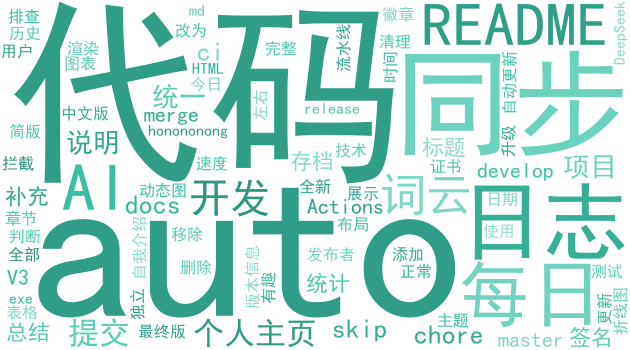
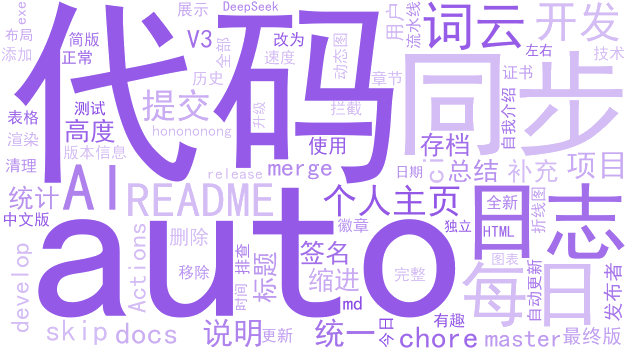
饼图换回环形+时间刻度+居中, 多段每段缩进, AI总结30-500字灵活

diff --git a/.github/scripts/gen_log.py b/.github/scripts/gen_log.py
@@ -58,7 +58,7 @@ def ai_log_and_color(commits):
     prompt = (
         "以下是我今天(GitHub: hong2301)的所有代码提交记录:\n" + desc +
         "\n\n请完成两件事:\n"
-        "1. 写一篇200-500字的中文今日开发日志, 第一人称, 像程序员日记, "
+        "1. 写一篇30-500字的中文今日开发日志, 跟据今天内容多少灵活调整篇幅, 内容少就短一点, 千万不要写废话, 第一人称, 像程序员日记, "
         "自然叙述今天做了什么、解决了什么问题, 不要列清单, 不要说'今天提交了N次代码'这类废话. "
         "重要: 涉及具体项目/版本号/功能时, 前面必须带项目中文名\n"
         "2. 根据今天的工作内容与状态, 从以下8个主题色中选一个最贴合的颜色:\n"
@@ -121,28 +121,32 @@ def build_pie_svg(commits, hexc):
         hh = int(c["time"][:2])
         buckets[min(hh//4, 5)] = (buckets[min(hh//4,5)][0], buckets[min(hh//4,5)][1]+1)
     total = len(commits) or 1
-    W, H, cx, cy, rmax = 420, 350, 210, 175, 128
-    maxv = max(b[1] for b in buckets) or 1
+    W, H, cx, cy, r, r2 = 430, 360, 215, 180, 108, 58
     colors = shades(hexc, len(buckets))
     s = ['<svg xmlns="http://www.w3.org/2000/svg" width="%d" height="%d" viewBox="0 0 %d %d">' % (W,H,W,H),
          '<rect width="100%%" height="100%%" fill="#0d1117"/>']
     seg = 360.0 / len(buckets)
-    gap = 1.5
+    start = -90
     for i, (name, v) in enumerate(buckets):
-        rr = rmax * (v / maxv)
-        if rr > 2:
-            a0 = -90 + i * seg + gap / 2
-            a1 = -90 + (i + 1) * seg - gap / 2
-            x0, y0 = _polar(cx, cy, rr, a0)
-            x1, y1 = _polar(cx, cy, rr, a1)
-            large = 1 if (a1 - a0) > 180 else 0
-            d = ("M %.1f %.1f L %.1f %.1f A %.1f %.1f 0 %d 1 %.1f %.1f Z"
-                 % (cx, cy, x0, y0, rr, rr, large, x1, y1))
+        frac = v / total
+        a0, a1 = start, start + frac * 360
+        if frac > 0.001:
+            x0,y0 = _polar(cx,cy,r,a0); x1,y1 = _polar(cx,cy,r,a1)
+            x2,y2 = _polar(cx,cy,r2,a1); x3,y3 = _polar(cx,cy,r2,a0)
+            large = 1 if (a1-a0) > 180 else 0
+            d = ("M %.1f %.1f A %d %d 0 %d 1 %.1f %.1f L %.1f %.1f A %d %d 0 %d 0 %.1f %.1f Z"
+                 % (x0,y0,r,r,large,x1,y1,x2,y2,r2,r2,large,x3,y3))
             s.append('<path d="' + d + '" fill="' + colors[i] + '"/>')
-    s.append('<text x="%d" y="%d" fill="#1a1a1a" font-size="34" font-weight="bold" text-anchor="middle" font-family="sans-serif">%d</text>'
+        # 时间刻度: 扇区中央外侧
+        am = (a0 + a1) / 2
+        tx, ty = _polar(cx, cy, r + 20, am)
+        s.append('<text x="%.1f" y="%.1f" fill="#c9d1d9" font-size="12" text-anchor="middle" font-family="sans-serif">%s</text>'
+                 % (tx, ty + 4, name))
+        start = a1
+    s.append('<text x="%d" y="%d" fill="#1a1a1a" font-size="32" font-weight="bold" text-anchor="middle" font-family="sans-serif">%d</text>'
              % (cx, cy+2, total))
-    s.append('<text x="%d" y="%d" fill="#333333" font-size="16" text-anchor="middle" font-family="sans-serif">次提交</text>'
-             % (cx, cy+28))
+    s.append('<text x="%d" y="%d" fill="#4b5563" font-size="15" text-anchor="middle" font-family="sans-serif">次提交</text>'
+             % (cx, cy+24))
     s.append('</svg>')
     return "".join(s)
 
@@ -153,7 +157,9 @@ def build_log(date_str, commits, ai_text, hexc, img_line):
     title = '<h1 style="color:%s">%s日志</h1>' % (hexc, cn_date(date.fromisoformat(date_str)))
     lines = [title, "", ""]
     if ai_text:
-        lines.append("　　" + ai_text.strip())
+        paras = ai_text.strip().split(chr(10))
+        indented = chr(10).join("\u3000\u3000" + p if p.strip() else "" for p in paras)
+        lines.append(indented)
     else:
         lines.append("*(今天没有提交记录)*" if not commits else "*日志生成中...*")
     lines.append("")

diff --git a/logs/2026-08-17.md b/logs/2026-08-17.md
@@ -1,9 +1,7 @@
-<h1 style="color:#4ec9b0">2026年8月17日日志</h1>
+<h1 style="color:#bc8cff">2026年8月17日日志</h1>
 
 
-　　今天大部分时间都泡在微信公众号OCR采集器上。早上连续补了几轮开发日志，把之前遗漏的细节都整理进去了。下午集中精力打磨README，先是写了面向用户的最终版，然后发现自签名证书的问题——用户下载exe时总会被系统拦截，干脆在文档里明确说明了这是自签名的正常现象，省得大家误以为是病毒。接着发布了V3.0.1版本，给exe补全了版本信息，合并到master后清理了文档里过时的证书章节，整个过程还挺顺畅。
-
-傍晚突然想做点不一样的事，开始折腾个人主页。一开始加了统计卡和徽章，结果渲染老出问题，试了好几个版本。后来干脆推翻重来，搞了个有趣的中文版，还接入了每日提交动态图。为了让数据自动更新，专门写了GitHub Actions流水线，后来又把主页改成每日开发日志的形式，利用DeepSeek对当天的提交做AI总结。晚上在日志的视觉呈现上花了不少功夫——词云改成透明背景、饼图去掉图例、统一了尺寸和比例，还让AI根据当天内容自动判断主题色，这样每天打开主页颜色都不一样，挺有仪式感的。中间还顺手同步了十几个order系列的仓库代码，都是自动化操作，没费太多心思。整体今天就是白天打磨产品文档和发布，晚上折腾个人主页的自动化展示，代码写得不算多，但把很多细节都调到了满意的状态。
+　　上午先补了三轮开发日志的chore提交，算是给自动化流程热热身。午后的重头戏在微信公众号OCR采集器上——把README整理成最终用户向版本，顺带删掉了冗余的使用说明；随后发现自签名证书的提示可能让用户困惑，就在文档里补了拦截说明。接着发V3.0.1，给exe加了完整版本信息，合并回master后又清理了证书章节和旧速度说明。傍晚转去折腾个人主页，先是常规自我介绍加统计卡，结果渲染出问题，试了试最简版README排查，最后换了个新思路——全中文界面加每日提交动态图，还配了折线图和Actions自动更新。忙完主页又顺手把十几个order系列项目全部同步了一遍。晚上灵光一现，干脆把主页改成每日开发日志，用DeepSeek自动总结，还加了词云、饼图和玫瑰图，调了好几版布局和配色，最后统一成3:2比例，标题也用AI判断的主题色。今天主要就是给项目做收尾和打磨个人主页的展示效果，折腾得挺尽兴。
 
 <img src="2026-08-17-wordcloud.png" width="49%" alt="提交词云"/> <img src="2026-08-17-pie.svg" width="32.7%" alt="提交时间分布"/>
 

diff --git a/README.md b/README.md
@@ -1,9 +1,7 @@
-<h1 style="color:#4ec9b0">2026年8月17日日志</h1>
+<h1 style="color:#bc8cff">2026年8月17日日志</h1>
 
 
-　　今天大部分时间都泡在微信公众号OCR采集器上。早上连续补了几轮开发日志，把之前遗漏的细节都整理进去了。下午集中精力打磨README，先是写了面向用户的最终版，然后发现自签名证书的问题——用户下载exe时总会被系统拦截，干脆在文档里明确说明了这是自签名的正常现象，省得大家误以为是病毒。接着发布了V3.0.1版本，给exe补全了版本信息，合并到master后清理了文档里过时的证书章节，整个过程还挺顺畅。
-
-傍晚突然想做点不一样的事，开始折腾个人主页。一开始加了统计卡和徽章，结果渲染老出问题，试了好几个版本。后来干脆推翻重来，搞了个有趣的中文版，还接入了每日提交动态图。为了让数据自动更新，专门写了GitHub Actions流水线，后来又把主页改成每日开发日志的形式，利用DeepSeek对当天的提交做AI总结。晚上在日志的视觉呈现上花了不少功夫——词云改成透明背景、饼图去掉图例、统一了尺寸和比例，还让AI根据当天内容自动判断主题色，这样每天打开主页颜色都不一样，挺有仪式感的。中间还顺手同步了十几个order系列的仓库代码，都是自动化操作，没费太多心思。整体今天就是白天打磨产品文档和发布，晚上折腾个人主页的自动化展示，代码写得不算多，但把很多细节都调到了满意的状态。
+　　上午先补了三轮开发日志的chore提交，算是给自动化流程热热身。午后的重头戏在微信公众号OCR采集器上——把README整理成最终用户向版本，顺带删掉了冗余的使用说明；随后发现自签名证书的提示可能让用户困惑，就在文档里补了拦截说明。接着发V3.0.1，给exe加了完整版本信息，合并回master后又清理了证书章节和旧速度说明。傍晚转去折腾个人主页，先是常规自我介绍加统计卡，结果渲染出问题，试了试最简版README排查，最后换了个新思路——全中文界面加每日提交动态图，还配了折线图和Actions自动更新。忙完主页又顺手把十几个order系列项目全部同步了一遍。晚上灵光一现，干脆把主页改成每日开发日志，用DeepSeek自动总结，还加了词云、饼图和玫瑰图，调了好几版布局和配色，最后统一成3:2比例，标题也用AI判断的主题色。今天主要就是给项目做收尾和打磨个人主页的展示效果，折腾得挺尽兴。
 
 <img src="wordcloud.png" width="49%%" alt="提交词云"/> <img src="pie.svg" width="32.7%%" alt="提交时间分布"/>
 
